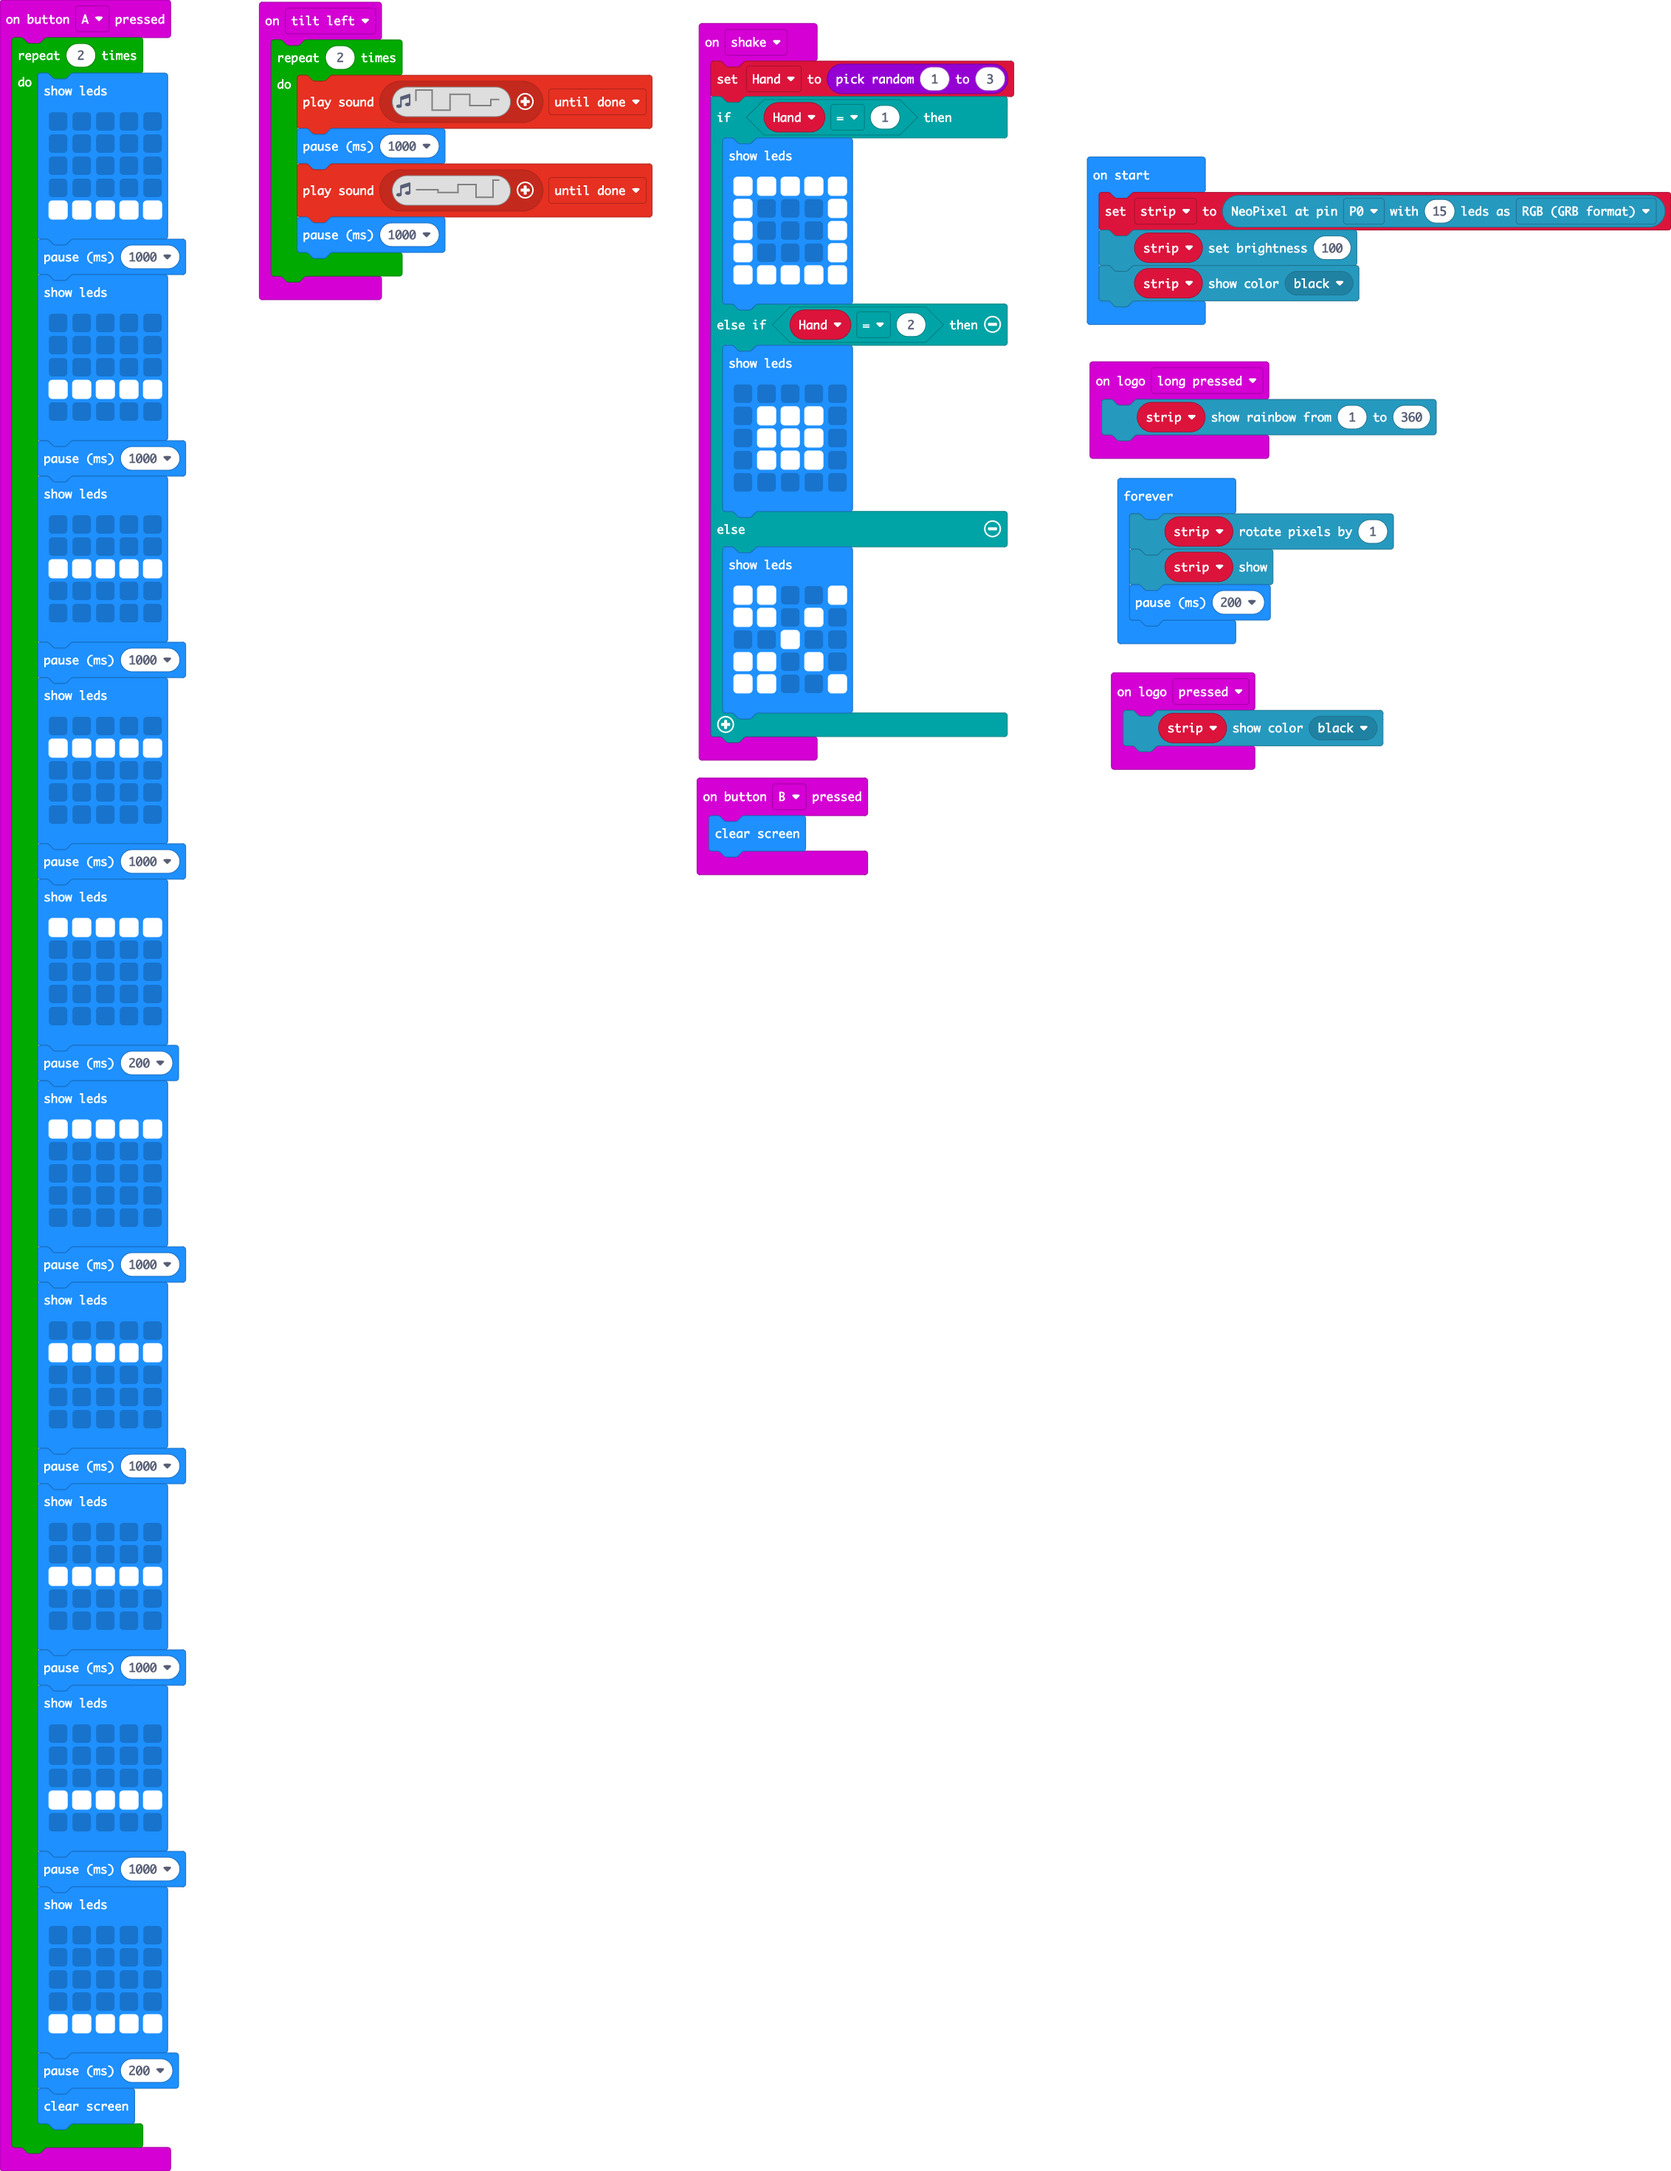
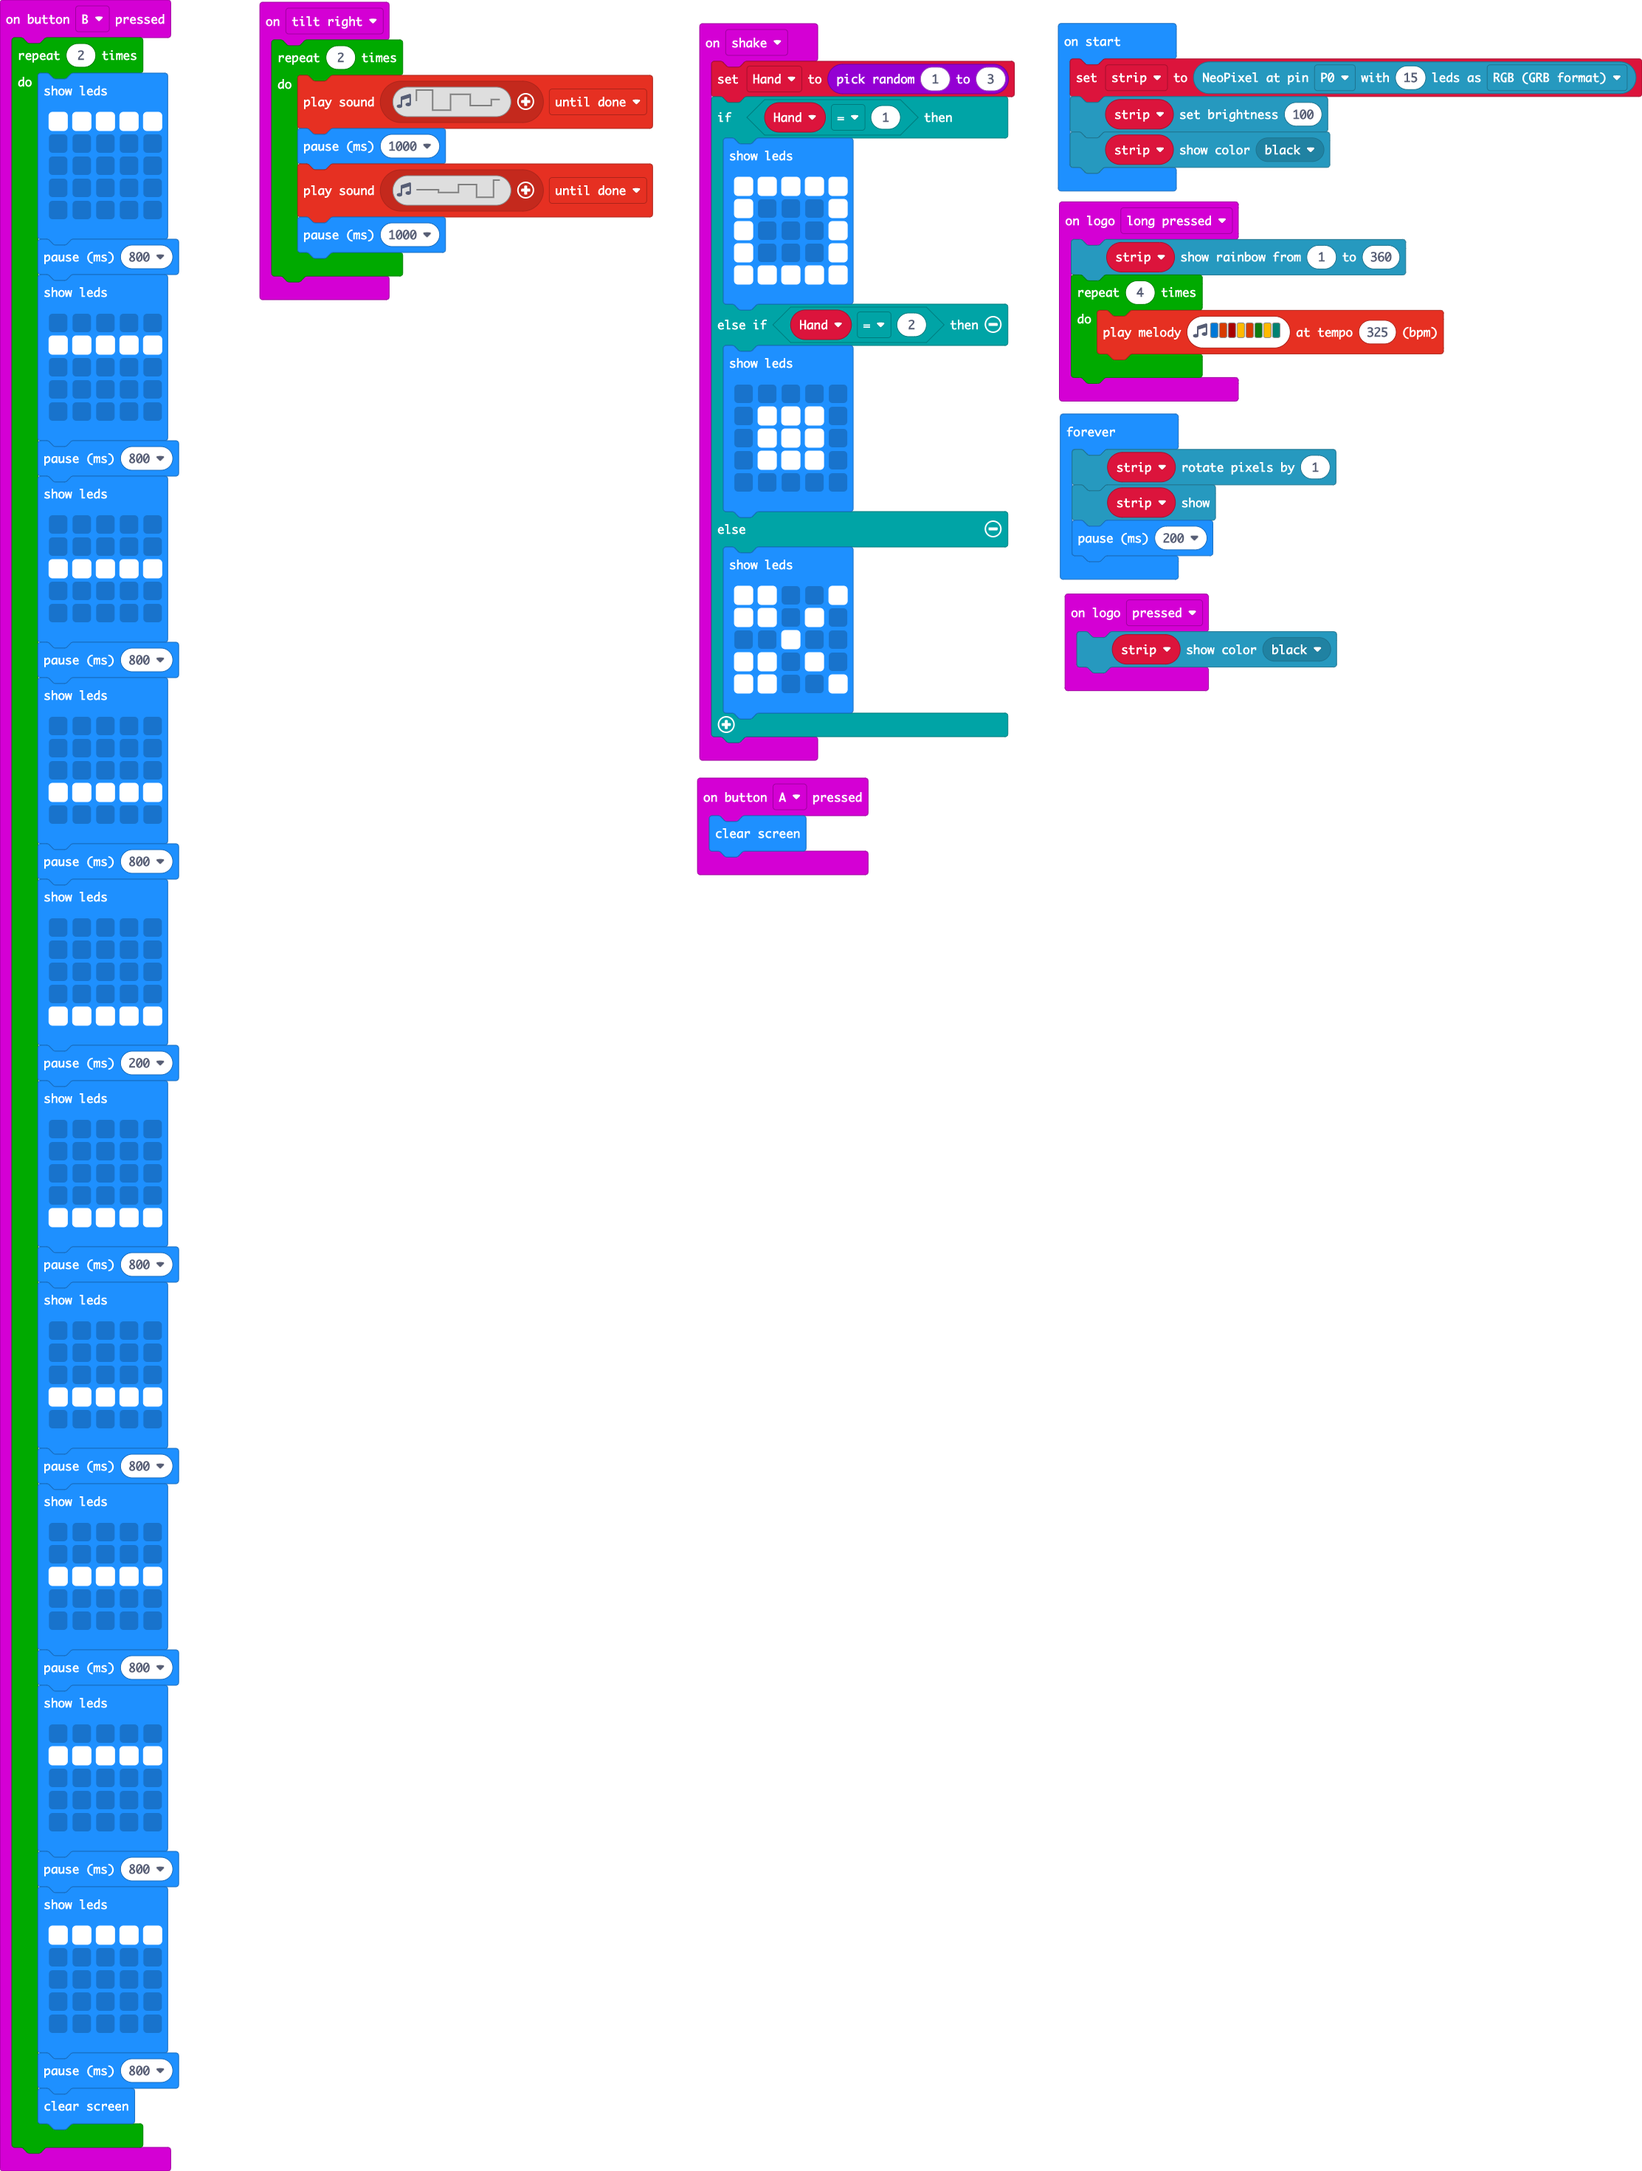
Update main.blocks, main.ts

diff --git a/main.ts b/main.ts
@@ -1,101 +1,96 @@
 input.onLogoEvent(TouchButtonEvent.LongPressed, function () {
     strip.showRainbow(1, 360)
+    for (let index = 0; index < 4; index++) {
+        music.playMelody("E B C5 A B G A F ", 325)
+    }
 })
 input.onButtonPressed(Button.A, function () {
-    for (let index = 0; index < 2; index++) {
-        basic.showLeds(`
-            . . . . .
-            . . . . .
-            . . . . .
-            . . . . .
-            # # # # #
-            `)
-        basic.pause(1000)
-        basic.showLeds(`
-            . . . . .
-            . . . . .
-            . . . . .
-            # # # # #
-            . . . . .
-            `)
-        basic.pause(1000)
-        basic.showLeds(`
-            . . . . .
-            . . . . .
-            # # # # #
-            . . . . .
-            . . . . .
-            `)
-        basic.pause(1000)
-        basic.showLeds(`
-            . . . . .
-            # # # # #
-            . . . . .
-            . . . . .
-            . . . . .
-            `)
-        basic.pause(1000)
-        basic.showLeds(`
-            # # # # #
-            . . . . .
-            . . . . .
-            . . . . .
-            . . . . .
-            `)
-        basic.pause(200)
-        basic.showLeds(`
-            # # # # #
-            . . . . .
-            . . . . .
-            . . . . .
-            . . . . .
-            `)
-        basic.pause(1000)
-        basic.showLeds(`
-            . . . . .
-            # # # # #
-            . . . . .
-            . . . . .
-            . . . . .
-            `)
-        basic.pause(1000)
-        basic.showLeds(`
-            . . . . .
-            . . . . .
-            # # # # #
-            . . . . .
-            . . . . .
-            `)
-        basic.pause(1000)
-        basic.showLeds(`
-            . . . . .
-            . . . . .
-            . . . . .
-            # # # # #
-            . . . . .
-            `)
-        basic.pause(1000)
-        basic.showLeds(`
-            . . . . .
-            . . . . .
-            . . . . .
-            . . . . .
-            # # # # #
-            `)
-        basic.pause(200)
-        basic.clearScreen()
-    }
-})
-input.onGesture(Gesture.TiltLeft, function () {
-    for (let index = 0; index < 2; index++) {
-        music.playSoundEffect(music.createSoundEffect(WaveShape.Square, 1600, 1, 255, 0, 1000, SoundExpressionEffect.None, InterpolationCurve.Curve), SoundExpressionPlayMode.UntilDone)
-        basic.pause(1000)
-        music.playSoundEffect(music.createSoundEffect(WaveShape.Square, 1, 1615, 0, 255, 1000, SoundExpressionEffect.None, InterpolationCurve.Curve), SoundExpressionPlayMode.UntilDone)
-        basic.pause(1000)
-    }
+    basic.clearScreen()
 })
 input.onButtonPressed(Button.B, function () {
-    basic.clearScreen()
+    for (let index = 0; index < 2; index++) {
+        basic.showLeds(`
+            # # # # #
+            . . . . .
+            . . . . .
+            . . . . .
+            . . . . .
+            `)
+        basic.pause(800)
+        basic.showLeds(`
+            . . . . .
+            # # # # #
+            . . . . .
+            . . . . .
+            . . . . .
+            `)
+        basic.pause(800)
+        basic.showLeds(`
+            . . . . .
+            . . . . .
+            # # # # #
+            . . . . .
+            . . . . .
+            `)
+        basic.pause(800)
+        basic.showLeds(`
+            . . . . .
+            . . . . .
+            . . . . .
+            # # # # #
+            . . . . .
+            `)
+        basic.pause(800)
+        basic.showLeds(`
+            . . . . .
+            . . . . .
+            . . . . .
+            . . . . .
+            # # # # #
+            `)
+        basic.pause(200)
+        basic.showLeds(`
+            . . . . .
+            . . . . .
+            . . . . .
+            . . . . .
+            # # # # #
+            `)
+        basic.pause(800)
+        basic.showLeds(`
+            . . . . .
+            . . . . .
+            . . . . .
+            # # # # #
+            . . . . .
+            `)
+        basic.pause(800)
+        basic.showLeds(`
+            . . . . .
+            . . . . .
+            # # # # #
+            . . . . .
+            . . . . .
+            `)
+        basic.pause(800)
+        basic.showLeds(`
+            . . . . .
+            # # # # #
+            . . . . .
+            . . . . .
+            . . . . .
+            `)
+        basic.pause(800)
+        basic.showLeds(`
+            # # # # #
+            . . . . .
+            . . . . .
+            . . . . .
+            . . . . .
+            `)
+        basic.pause(800)
+        basic.clearScreen()
+    }
 })
 input.onGesture(Gesture.Shake, function () {
     Hand = randint(1, 3)
@@ -123,6 +118,14 @@ input.onGesture(Gesture.Shake, function () {
             # # . # .
             # # . . #
             `)
+    }
+})
+input.onGesture(Gesture.TiltRight, function () {
+    for (let index = 0; index < 2; index++) {
+        music.playSoundEffect(music.createSoundEffect(WaveShape.Square, 1600, 1, 255, 0, 1000, SoundExpressionEffect.None, InterpolationCurve.Curve), SoundExpressionPlayMode.UntilDone)
+        basic.pause(1000)
+        music.playSoundEffect(music.createSoundEffect(WaveShape.Square, 1, 1615, 0, 255, 1000, SoundExpressionEffect.None, InterpolationCurve.Curve), SoundExpressionPlayMode.UntilDone)
+        basic.pause(1000)
     }
 })
 input.onLogoEvent(TouchButtonEvent.Pressed, function () {
